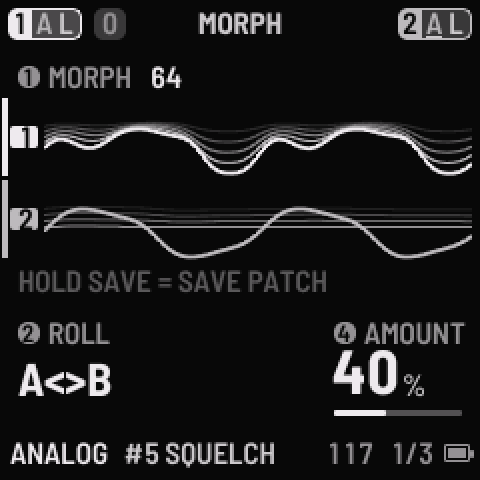
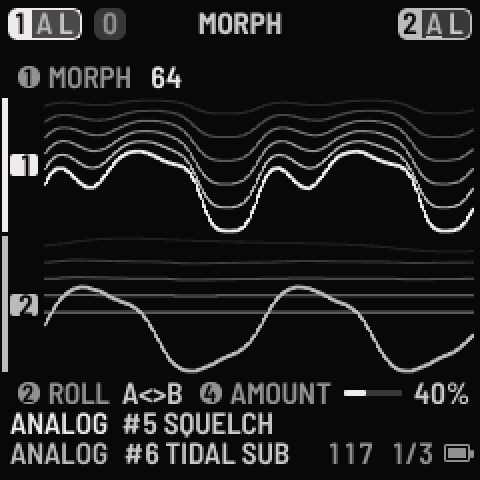
README and landing screenshot of the b5 MORPH layout (waves fill the page, ROLL / AMOUNT row, two-part footer; emulator at d639472)

Changed region(s): [[0.0, 0.1875, 1.0, 0.9688], [0.2812, 0.9375, 0.3125, 0.9688]]

diff --git a/felucca-base/web/landing.html b/felucca-base/web/landing.html
@@ -80,7 +80,7 @@
           <figcaption><b>TIDE SETTINGS</b>What the tide moves and how a new End B is made.</figcaption>
         </figure>
         <figure class="shot">
-          <img src="img/morph-gliding.png" width="240" height="240" alt="The MORPH page with PART set to BOTH and the fader at 64: each part's sound drawn as live waves, part 1 above and part 2 below, both tagged." loading="lazy">
+          <img src="img/morph-gliding.png" width="240" height="240" alt="The MORPH page with PART set to BOTH and the fader at 64: each part's sound drawn as live waves filling the page, part 1 above and part 2 below, both tagged; ROLL and AMOUNT on one row, both patches in the footer." loading="lazy">
           <figcaption><b>MORPH</b>PART 1, PART 2 or BOTH: each part's real sound as live waves, like an oscilloscope: a held note stands still, a chord beats; at rest the lines lie flat.</figcaption>
         </figure>
       </div>

diff --git a/README.md b/README.md
@@ -18,7 +18,7 @@ It is made for playing the FM-1 as a **background**: set a tide going, then play
 
 | AUTO TIDE | TIDE SETTINGS | MORPH, mid-glide |
 |:---:|:---:|:---:|
-| <img src="docs/tide/auto-tide-both-parts.png" width="260" alt="AUTO TIDE page with PART set to BOTH, both parts wandering to B: the SOUND and SEQ faders of parts 1 and 2, both parts' steps, MODE WANDER, TIME 16 bars, WAIT 2 bars"> | <img src="docs/tide/morph-settings.png" width="260" alt="TIDE SETTINGS page: STYLE, TARGET SND+SEQ, VARY BARS EVERY 4TH, ROLL MUSIC, ROLL ARP, ROLL PITCH; the rest of the rows scroll below"> | <img src="docs/tide/morph-gliding.png" width="260" alt="MORPH page with PART set to BOTH: each part's output drawn as live waves, part 1 above and part 2 below, both tagged and bright; MORPH 64, ROLL and AMOUNT 40 %"> |
+| <img src="docs/tide/auto-tide-both-parts.png" width="260" alt="AUTO TIDE page with PART set to BOTH, both parts wandering to B: the SOUND and SEQ faders of parts 1 and 2, both parts' steps, MODE WANDER, TIME 16 bars, WAIT 2 bars"> | <img src="docs/tide/morph-settings.png" width="260" alt="TIDE SETTINGS page: STYLE, TARGET SND+SEQ, VARY BARS EVERY 4TH, ROLL MUSIC, ROLL ARP, ROLL PITCH; the rest of the rows scroll below"> | <img src="docs/tide/morph-gliding.png" width="260" alt="MORPH page with PART set to BOTH: each part's output drawn as live waves filling the page, part 1 above and part 2 below, both tagged and bright; MORPH 64, ROLL and AMOUNT 40 % on one row, both parts' patches in the footer"> |
 | The glide, both parts, with their steps. | STYLE on top, then how the tide behaves. | DUELL's MORPH page follows the glide. |
 
 *Screens rendered from the firmware's own drawing code; try them live in the [web emulator](https://pssdrnk-cmyk.github.io/DUELL-TIDE/emu/).*
